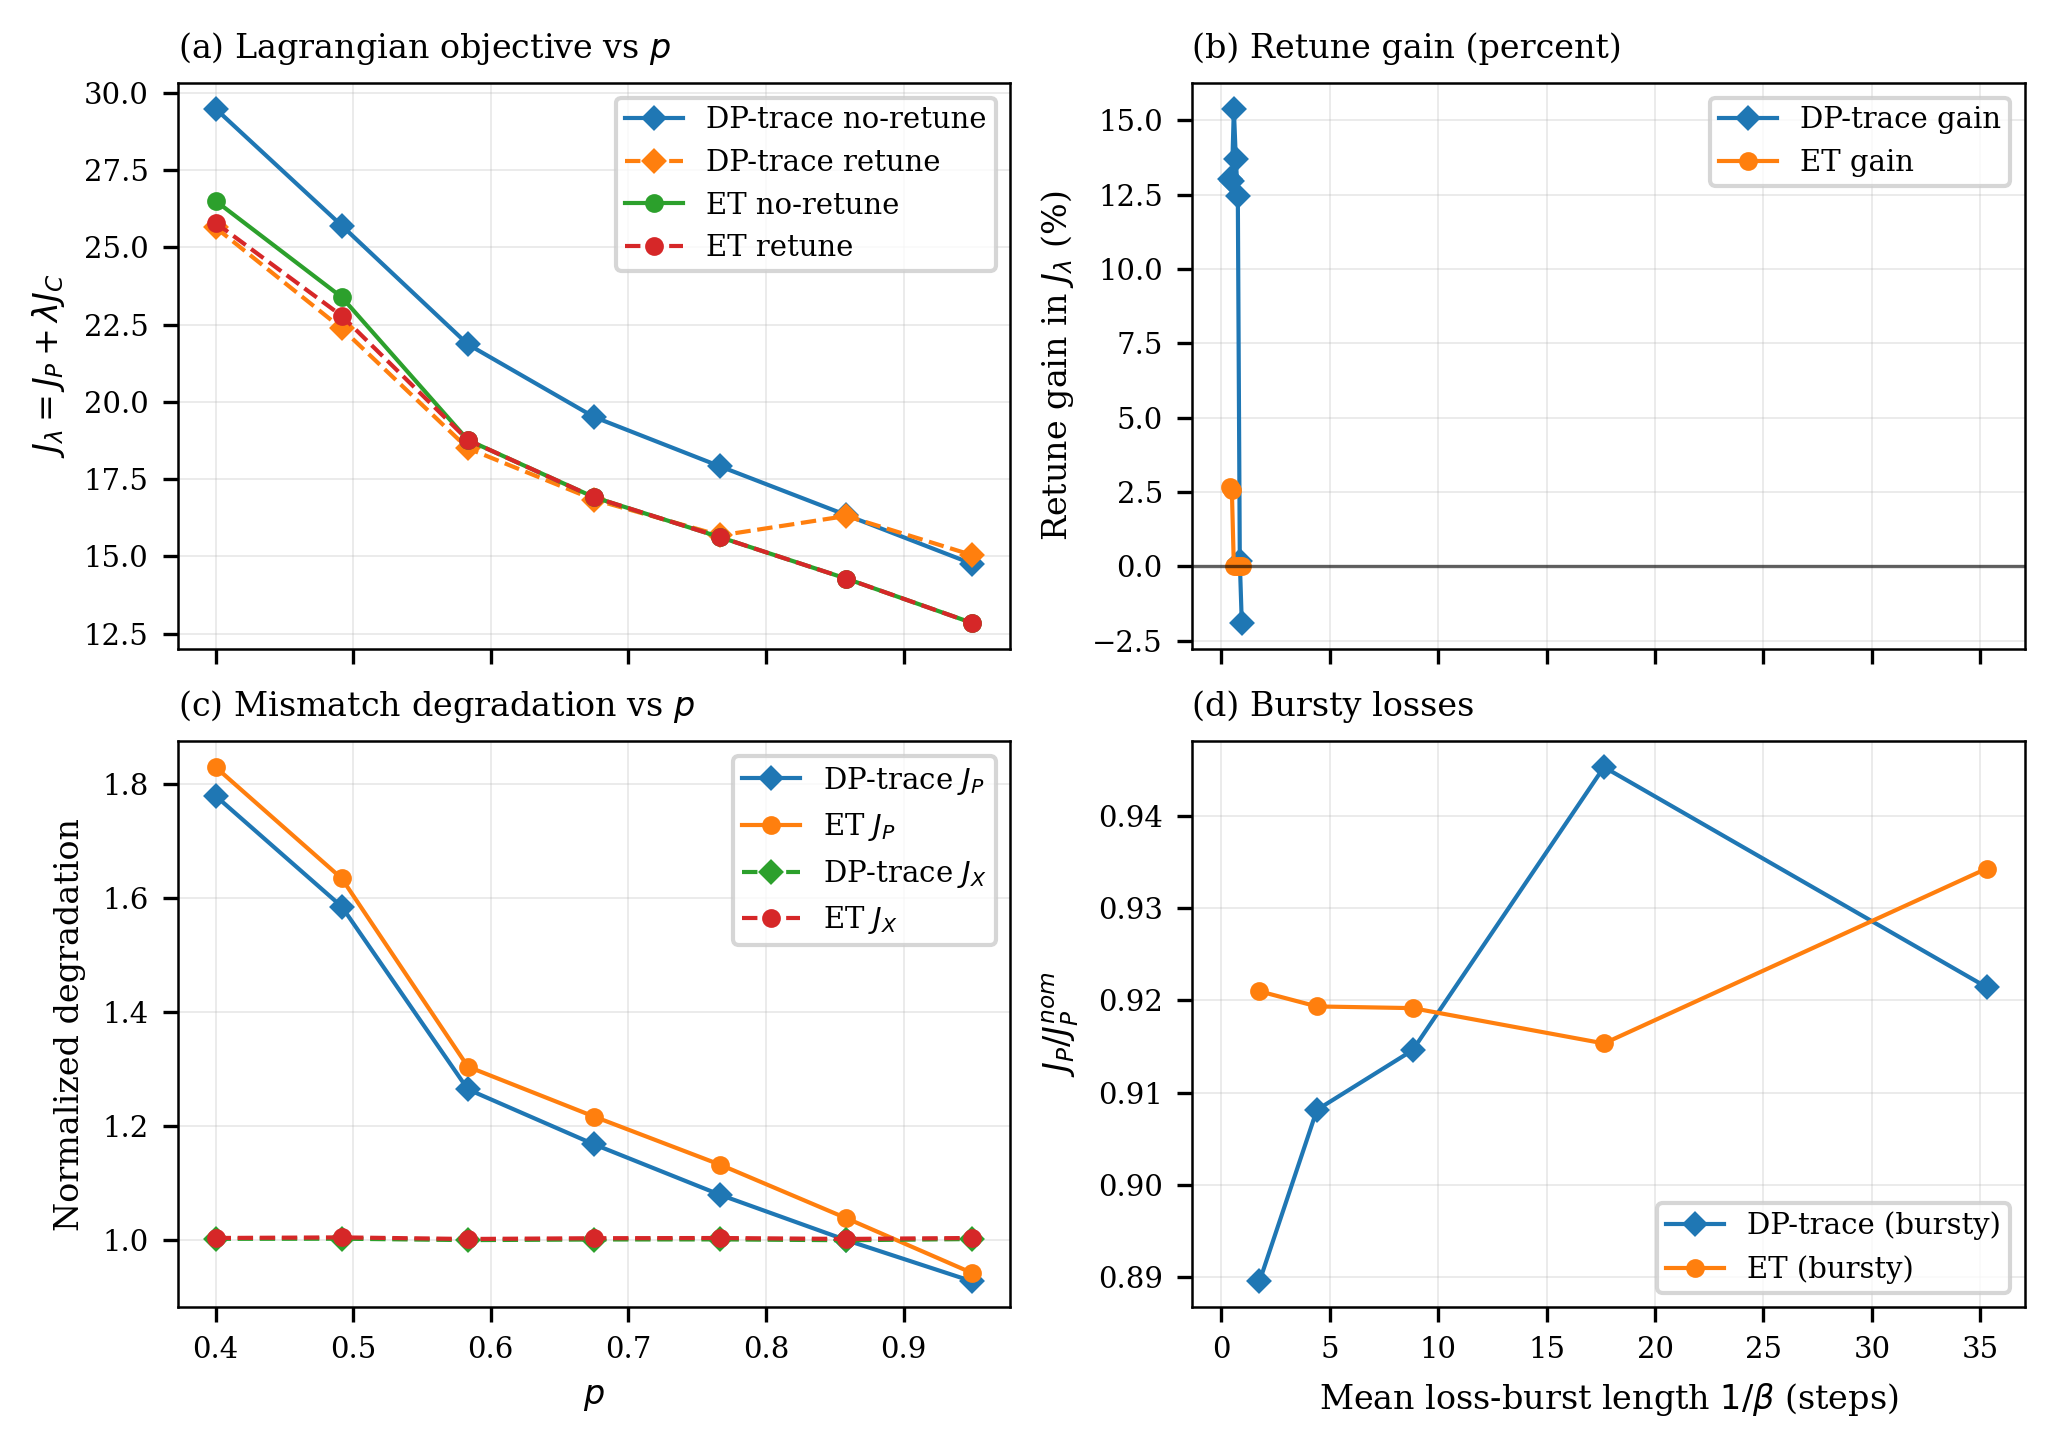
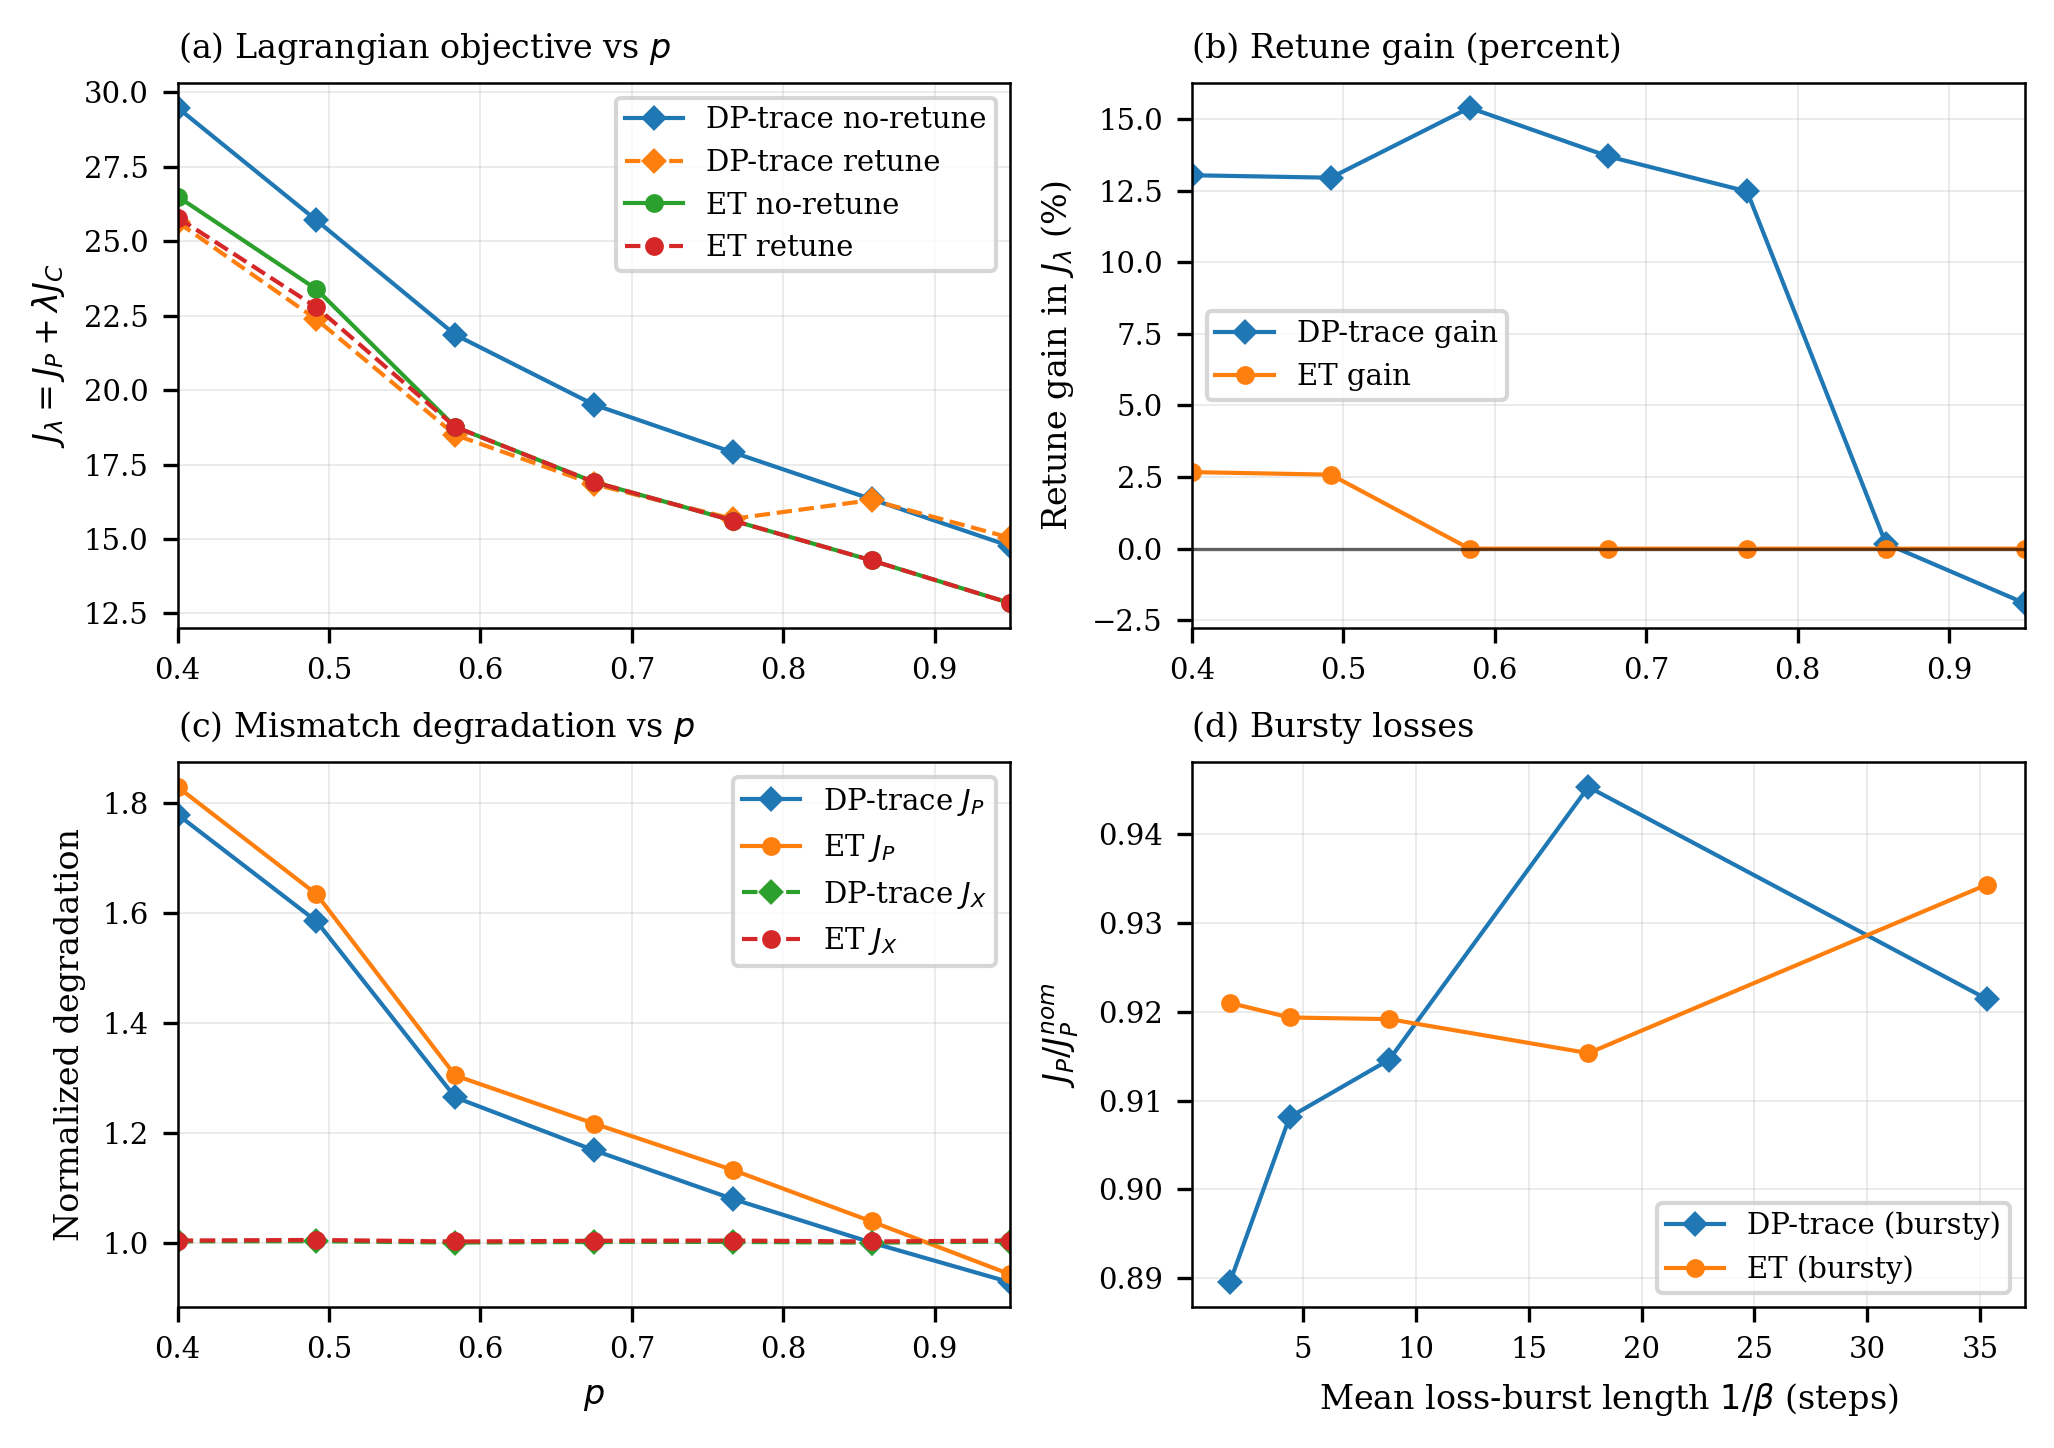
update

diff --git a/src/fris/paper_figures.py b/src/fris/paper_figures.py
@@ -419,7 +419,7 @@ def figure_C_channel_impairments(cfg: SimConfig, outdir: Path, lamb: float) -> N
         et_eval = _mc_eval_policy(et_eval_cfg, seeds, "ET")
         et_ratio_b.append(_mean_ci(et_eval["J_P"])[0] / jp_nom)
 
-    fig, axs = plt.subplots(2, 2, figsize=(6.8, 4.8), sharex="col")
+    fig, axs = plt.subplots(2, 2, figsize=(6.8, 4.8))
     ax1, ax2 = axs[0, 0], axs[0, 1]
     ax3, ax4 = axs[1, 0], axs[1, 1]
 
@@ -431,6 +431,7 @@ def figure_C_channel_impairments(cfg: SimConfig, outdir: Path, lamb: float) -> N
     ax1.set_title("(a) Lagrangian objective vs $p$", loc="left")
     ax1.grid(True, alpha=0.3)
     ax1.legend(loc="best", frameon=True, borderpad=0.3)
+    ax1.set_xlim(float(p_vals.min()), float(p_vals.max()))
 
     ax2.plot(p_vals, 100.0 * np.array(obj_dp_gain), "D-", label="DP-trace gain")
     ax2.plot(p_vals, 100.0 * np.array(obj_et_gain), "o-", label="ET gain")
@@ -439,6 +440,7 @@ def figure_C_channel_impairments(cfg: SimConfig, outdir: Path, lamb: float) -> N
     ax2.set_title("(b) Retune gain (percent)", loc="left")
     ax2.grid(True, alpha=0.3)
     ax2.legend(loc="best", frameon=True, borderpad=0.3)
+    ax2.set_xlim(float(p_vals.min()), float(p_vals.max()))
 
     ax3.plot(p_vals, dp_ratio_p, "D-", label="DP-trace $J_P$")
     ax3.plot(p_vals, et_ratio_p, "o-", label="ET $J_P$")
@@ -449,6 +451,7 @@ def figure_C_channel_impairments(cfg: SimConfig, outdir: Path, lamb: float) -> N
     ax3.set_title("(c) Mismatch degradation vs $p$", loc="left")
     ax3.grid(True, alpha=0.3)
     ax3.legend(loc="best", frameon=True, borderpad=0.3)
+    ax3.set_xlim(float(p_vals.min()), float(p_vals.max()))
 
     ax4.plot(bad_run, dp_ratio_b, "D-", label="DP-trace (bursty)")
     ax4.plot(bad_run, et_ratio_b, "o-", label="ET (bursty)")
